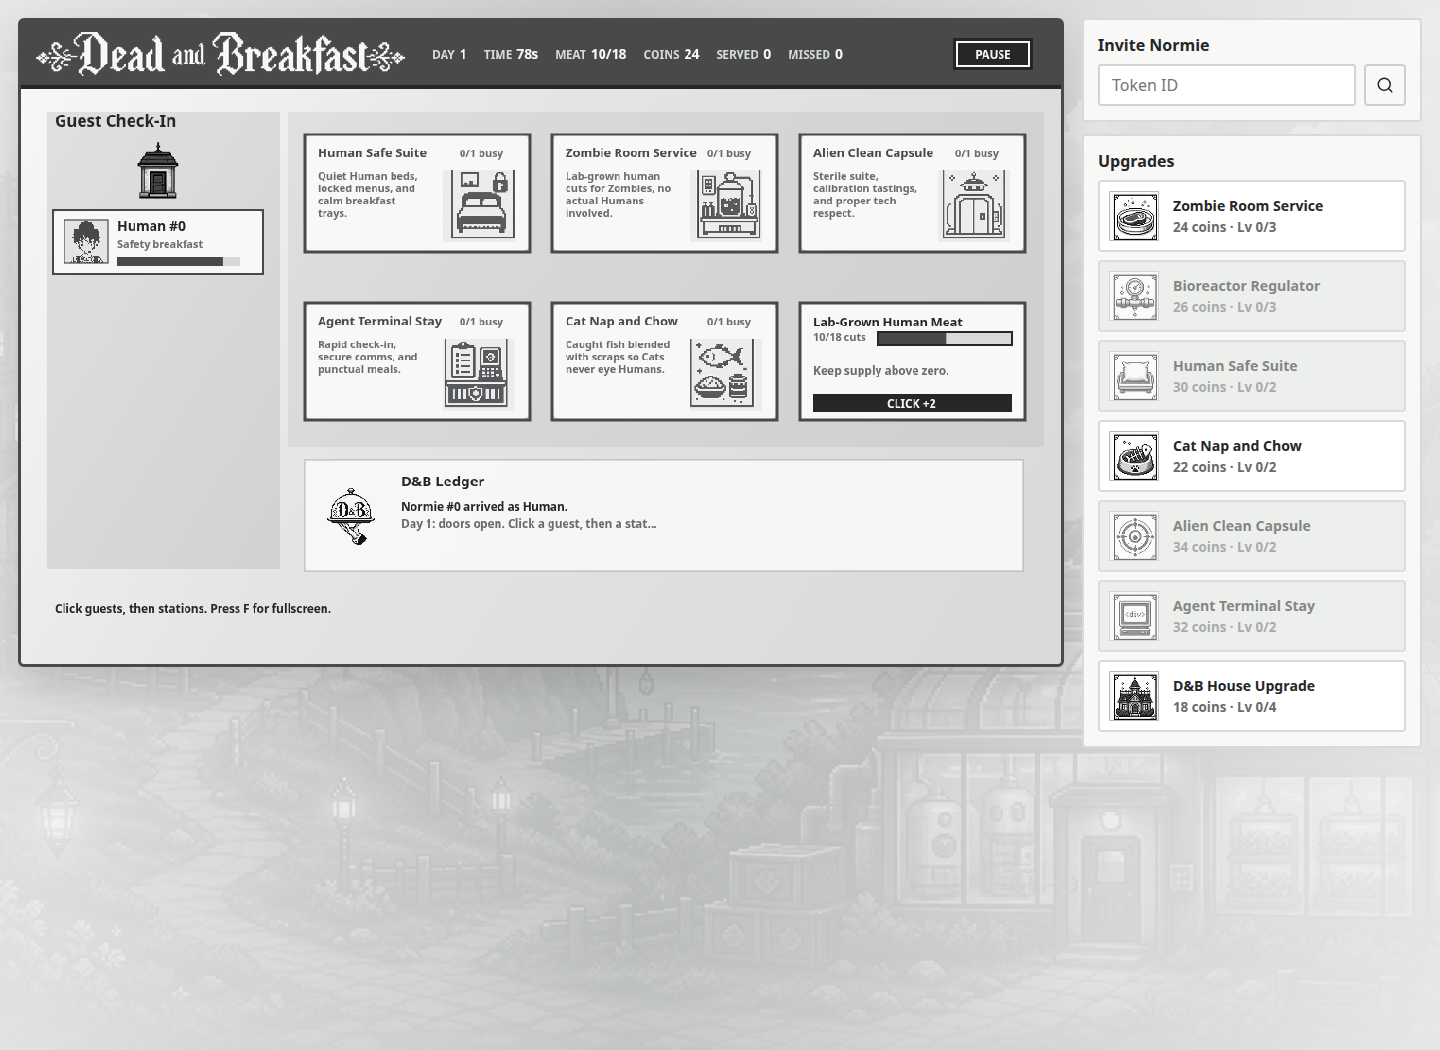
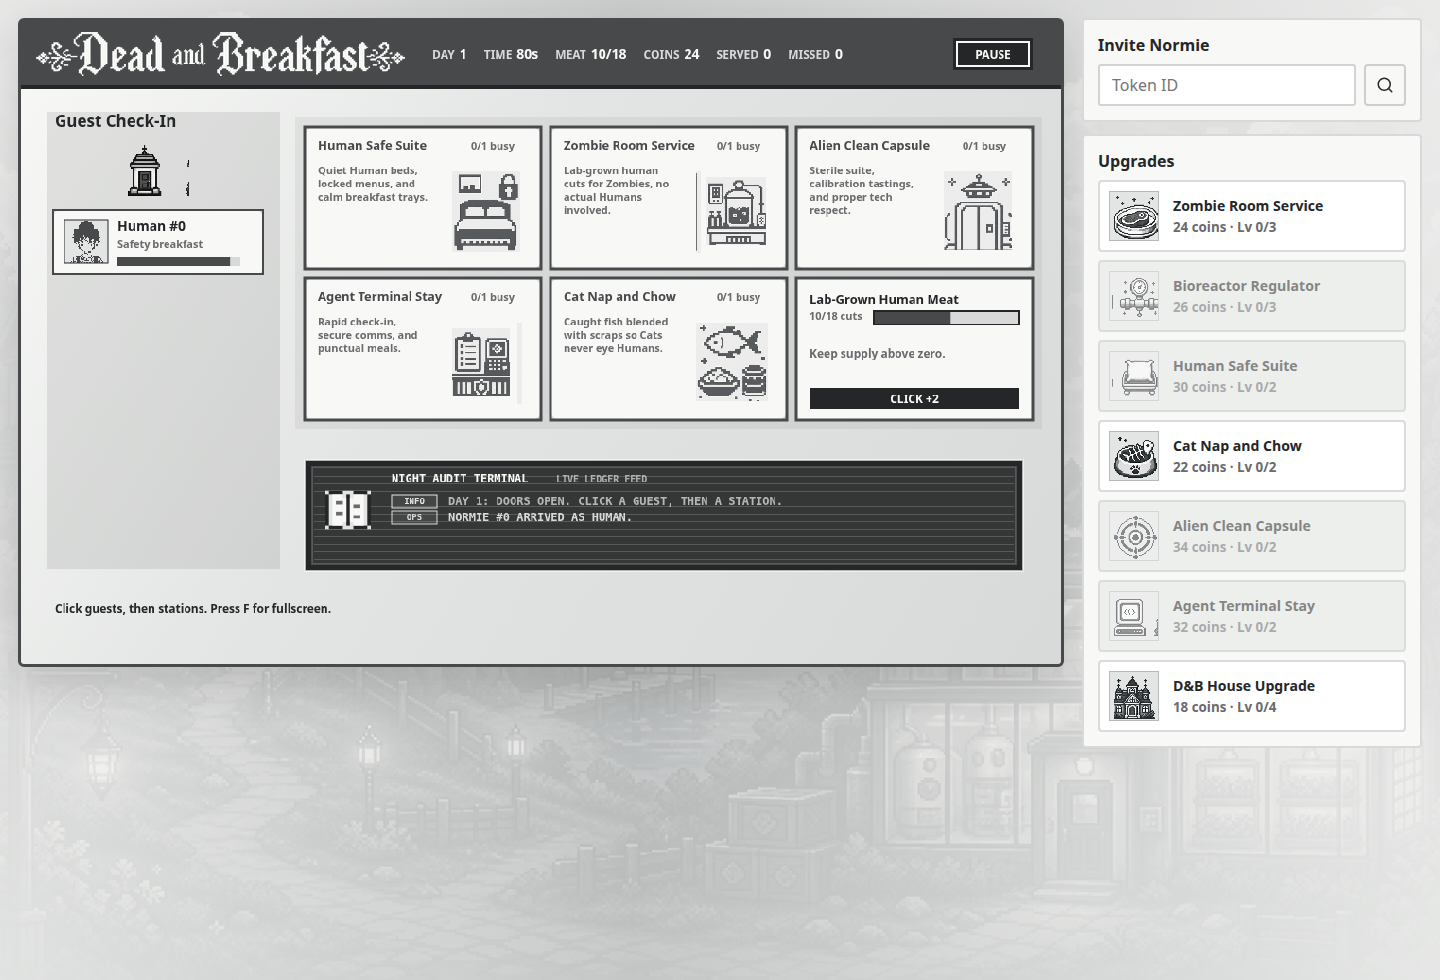
Animate ledger terminal

Changed region(s): [[0.0, 0.0306, 1.0, 0.7653]]

diff --git a/src/game/render.ts b/src/game/render.ts
@@ -23,13 +23,15 @@ export function drawGame(
   headerLogo?: HTMLImageElement,
   overlayLogo?: HTMLImageElement,
   houseSprites?: HTMLImageElement,
+  renderTime = 0,
+  ledgerLineAge = 999,
 ): void {
   ctx.clearRect(0, 0, CANVAS_WIDTH, CANVAS_HEIGHT);
   drawBackground(ctx);
   drawHeader(ctx, state, headerLogo);
   drawQueue(ctx, state, images, houseSprites);
   drawStations(ctx, state, images, roomIcons);
-  drawFooter(ctx, state);
+  drawFooter(ctx, state, renderTime, ledgerLineAge);
   drawLabMeatFlash(ctx, state);
 
   if (state.paused) {
@@ -442,31 +444,126 @@ function drawLabMeatFlash(
   ctx.fillRect(0, CANVAS_HEIGHT - 8, CANVAS_WIDTH, 5);
 }
 
-function drawFooter(ctx: CanvasRenderingContext2D, state: GameState): void {
-  ctx.fillStyle = "rgba(248, 249, 247, 0.9)";
-  ctx.fillRect(300, 464, 760, 118);
-  ctx.strokeStyle = "rgba(72, 73, 75, 0.18)";
-  ctx.lineWidth = 2;
-  ctx.strokeRect(300, 464, 760, 118);
-
-  drawOpenBookSprite(ctx, 324, 493, 52);
-
+function drawFooter(
+  ctx: CanvasRenderingContext2D,
+  state: GameState,
+  renderTime: number,
+  ledgerLineAge: number,
+): void {
+  const rect = { x: 300, y: 464, w: 760, h: 118 };
   ctx.fillStyle = "#252628";
-  ctx.font = "800 15px system-ui, sans-serif";
-  ctx.fillText("D&B Ledger", 392, 492);
-  ctx.font = "600 12px system-ui, sans-serif";
-  state.log.slice(0, 6).forEach((line, index) => {
-    const column = index < 3 ? 0 : 1;
-    const row = index % 3;
-    const x = column === 0 ? 392 : 700;
-    const y = 518 + row * 18;
-    ctx.fillStyle = index === 0 ? "#252628" : "#696b6c";
-    drawClippedText(ctx, line, x, y, column === 0 ? 282 : 330);
+  ctx.fillRect(rect.x, rect.y, rect.w, rect.h);
+  ctx.fillStyle = "rgba(248, 249, 247, 0.08)";
+  ctx.fillRect(rect.x + 8, rect.y + 8, rect.w - 16, rect.h - 16);
+  ctx.strokeStyle = "rgba(248, 249, 247, 0.68)";
+  ctx.lineWidth = 2;
+  ctx.strokeRect(rect.x, rect.y, rect.w, rect.h);
+  ctx.strokeStyle = "rgba(248, 249, 247, 0.18)";
+  ctx.strokeRect(rect.x + 8, rect.y + 8, rect.w - 16, rect.h - 16);
+
+  drawLedgerScanlines(ctx, rect.x + 10, rect.y + 10, rect.w - 20, rect.h - 20, renderTime);
+  drawOpenBookSprite(ctx, 322, 493, 48);
+
+  ctx.fillStyle = "#f8f9f7";
+  ctx.font = "900 12px ui-monospace, SFMono-Regular, Menlo, monospace";
+  ctx.fillText("NIGHT AUDIT TERMINAL", 392, 488);
+  ctx.fillStyle = "rgba(248, 249, 247, 0.62)";
+  ctx.font = "700 10px ui-monospace, SFMono-Regular, Menlo, monospace";
+  ctx.fillText("LIVE LEDGER FEED", 566, 488);
+
+  const visibleLog = state.log.slice(0, 4).reverse();
+  visibleLog.forEach((line, index) => {
+    const isNewest = index === visibleLog.length - 1;
+    const severity = getLedgerSeverity(line);
+    const typedLine = isNewest ? getTypedLedgerLine(line, ledgerLineAge) : line;
+    const y = 512 + index * 17;
+
+    drawLedgerBadge(ctx, severity, 392, y - 11);
+    ctx.fillStyle = isNewest ? severity.color : "rgba(248, 249, 247, 0.66)";
+    ctx.font = `${isNewest ? "800" : "700"} 12px ui-monospace, SFMono-Regular, Menlo, monospace`;
+    drawClippedText(ctx, typedLine.toUpperCase(), 452, y, 560);
+
+    if (isNewest && Math.floor(renderTime * 2) % 2 === 0) {
+      const cursorX = Math.min(
+        1018,
+        452 + ctx.measureText(typedLine.toUpperCase()).width + 5,
+      );
+      ctx.fillStyle = severity.color;
+      ctx.fillRect(cursorX, y - 11, 7, 13);
+    }
   });
 
   ctx.fillStyle = "#252628";
   ctx.font = "700 12px system-ui, sans-serif";
   ctx.fillText("Click guests, then stations. Press F for fullscreen.", 36, 626);
+}
+
+function drawLedgerScanlines(
+  ctx: CanvasRenderingContext2D,
+  x: number,
+  y: number,
+  w: number,
+  h: number,
+  renderTime: number,
+): void {
+  ctx.save();
+  ctx.globalAlpha = 0.18;
+  ctx.fillStyle = "#f8f9f7";
+  const offset = Math.floor(renderTime * 10) % 8;
+  for (let lineY = y + offset; lineY < y + h; lineY += 8) {
+    ctx.fillRect(x, lineY, w, 1);
+  }
+  ctx.restore();
+}
+
+function getTypedLedgerLine(line: string, lineAge: number): string {
+  const typedCharacters = Math.min(line.length, Math.floor(lineAge * 28));
+  return line.slice(0, typedCharacters);
+}
+
+function getLedgerSeverity(line: string): { label: string; color: string } {
+  const normalized = line.toLowerCase();
+  if (
+    normalized.includes("out of") ||
+    normalized.includes("missed") ||
+    normalized.includes("risky") ||
+    normalized.includes("full")
+  ) {
+    return { label: "WARN", color: "#d58a8a" };
+  }
+  if (
+    normalized.includes("closed") ||
+    normalized.includes("served") ||
+    normalized.includes("payment") ||
+    normalized.includes("upgraded")
+  ) {
+    return { label: "CASH", color: "#f8f9f7" };
+  }
+  if (
+    normalized.includes("arrived") ||
+    normalized.includes("joined") ||
+    normalized.includes("selected") ||
+    normalized.includes("sent")
+  ) {
+    return { label: "OPS", color: "#d7dad9" };
+  }
+  return { label: "INFO", color: "#e3e5e4" };
+}
+
+function drawLedgerBadge(
+  ctx: CanvasRenderingContext2D,
+  severity: { label: string; color: string },
+  x: number,
+  y: number,
+): void {
+  ctx.fillStyle = "rgba(248, 249, 247, 0.08)";
+  ctx.fillRect(x, y, 48, 14);
+  ctx.strokeStyle = severity.color;
+  ctx.lineWidth = 1;
+  ctx.strokeRect(x, y, 48, 14);
+  ctx.fillStyle = severity.color;
+  ctx.font = "900 9px ui-monospace, SFMono-Regular, Menlo, monospace";
+  drawCenteredText(ctx, severity.label, x + 24, y + 10);
 }
 
 function drawOpenBookSprite(

diff --git a/src/CanvasStage.tsx b/src/CanvasStage.tsx
@@ -20,7 +20,11 @@ export function CanvasStage({
 }: CanvasStageProps) {
   const canvasRef = useRef<HTMLCanvasElement | null>(null);
   const wrapRef = useRef<HTMLDivElement | null>(null);
+  const stateRef = useRef(state);
+  const statsRef = useRef(stats);
   const imagesRef = useRef<Map<string, HTMLImageElement>>(new Map());
+  const ledgerLineRef = useRef<string | null>(null);
+  const ledgerLineStartedAtRef = useRef(0);
   const visibleImageUrls = useMemo(() => {
     return Array.from(
       new Set([
@@ -41,15 +45,31 @@ export function CanvasStage({
       const image = new Image();
       image.crossOrigin = "anonymous";
       image.decoding = "async";
-      image.onload = () => draw();
-      image.onerror = () => draw();
+      image.onload = () => draw(performance.now());
+      image.onerror = () => draw(performance.now());
       image.src = url;
       imagesRef.current.set(url, image);
     }
 
-    draw();
+    draw(performance.now());
     // eslint-disable-next-line react-hooks/exhaustive-deps
   }, [visibleImageUrls, state, stats]);
+
+  useEffect(() => {
+    stateRef.current = state;
+    statsRef.current = stats;
+  }, [state, stats]);
+
+  useEffect(() => {
+    let frame = 0;
+    const loop = (time: number) => {
+      draw(time);
+      frame = requestAnimationFrame(loop);
+    };
+
+    frame = requestAnimationFrame(loop);
+    return () => cancelAnimationFrame(frame);
+  }, []);
 
   useEffect(() => {
     const onKeyDown = (event: KeyboardEvent) => {
@@ -68,20 +88,28 @@ export function CanvasStage({
     return () => window.removeEventListener("keydown", onKeyDown);
   }, []);
 
-  const draw = () => {
+  const draw = (timeMs: number) => {
     const canvas = canvasRef.current;
     if (!canvas) return;
     const ctx = canvas.getContext("2d");
     if (!ctx) return;
+    const currentState = stateRef.current;
+    const latestLedgerLine = currentState.log[0] ?? "";
+    if (ledgerLineRef.current !== latestLedgerLine) {
+      ledgerLineRef.current = latestLedgerLine;
+      ledgerLineStartedAtRef.current = timeMs;
+    }
     drawGame(
       ctx,
-      state,
+      currentState,
       imagesRef.current,
-      stats,
+      statsRef.current,
       imagesRef.current.get(roomIconsUrl),
       imagesRef.current.get(headerLogoUrl),
       imagesRef.current.get(headerLogoDarkUrl),
       imagesRef.current.get(houseSpritesUrl),
+      timeMs / 1000,
+      Math.max(0, (timeMs - ledgerLineStartedAtRef.current) / 1000),
     );
   };
 